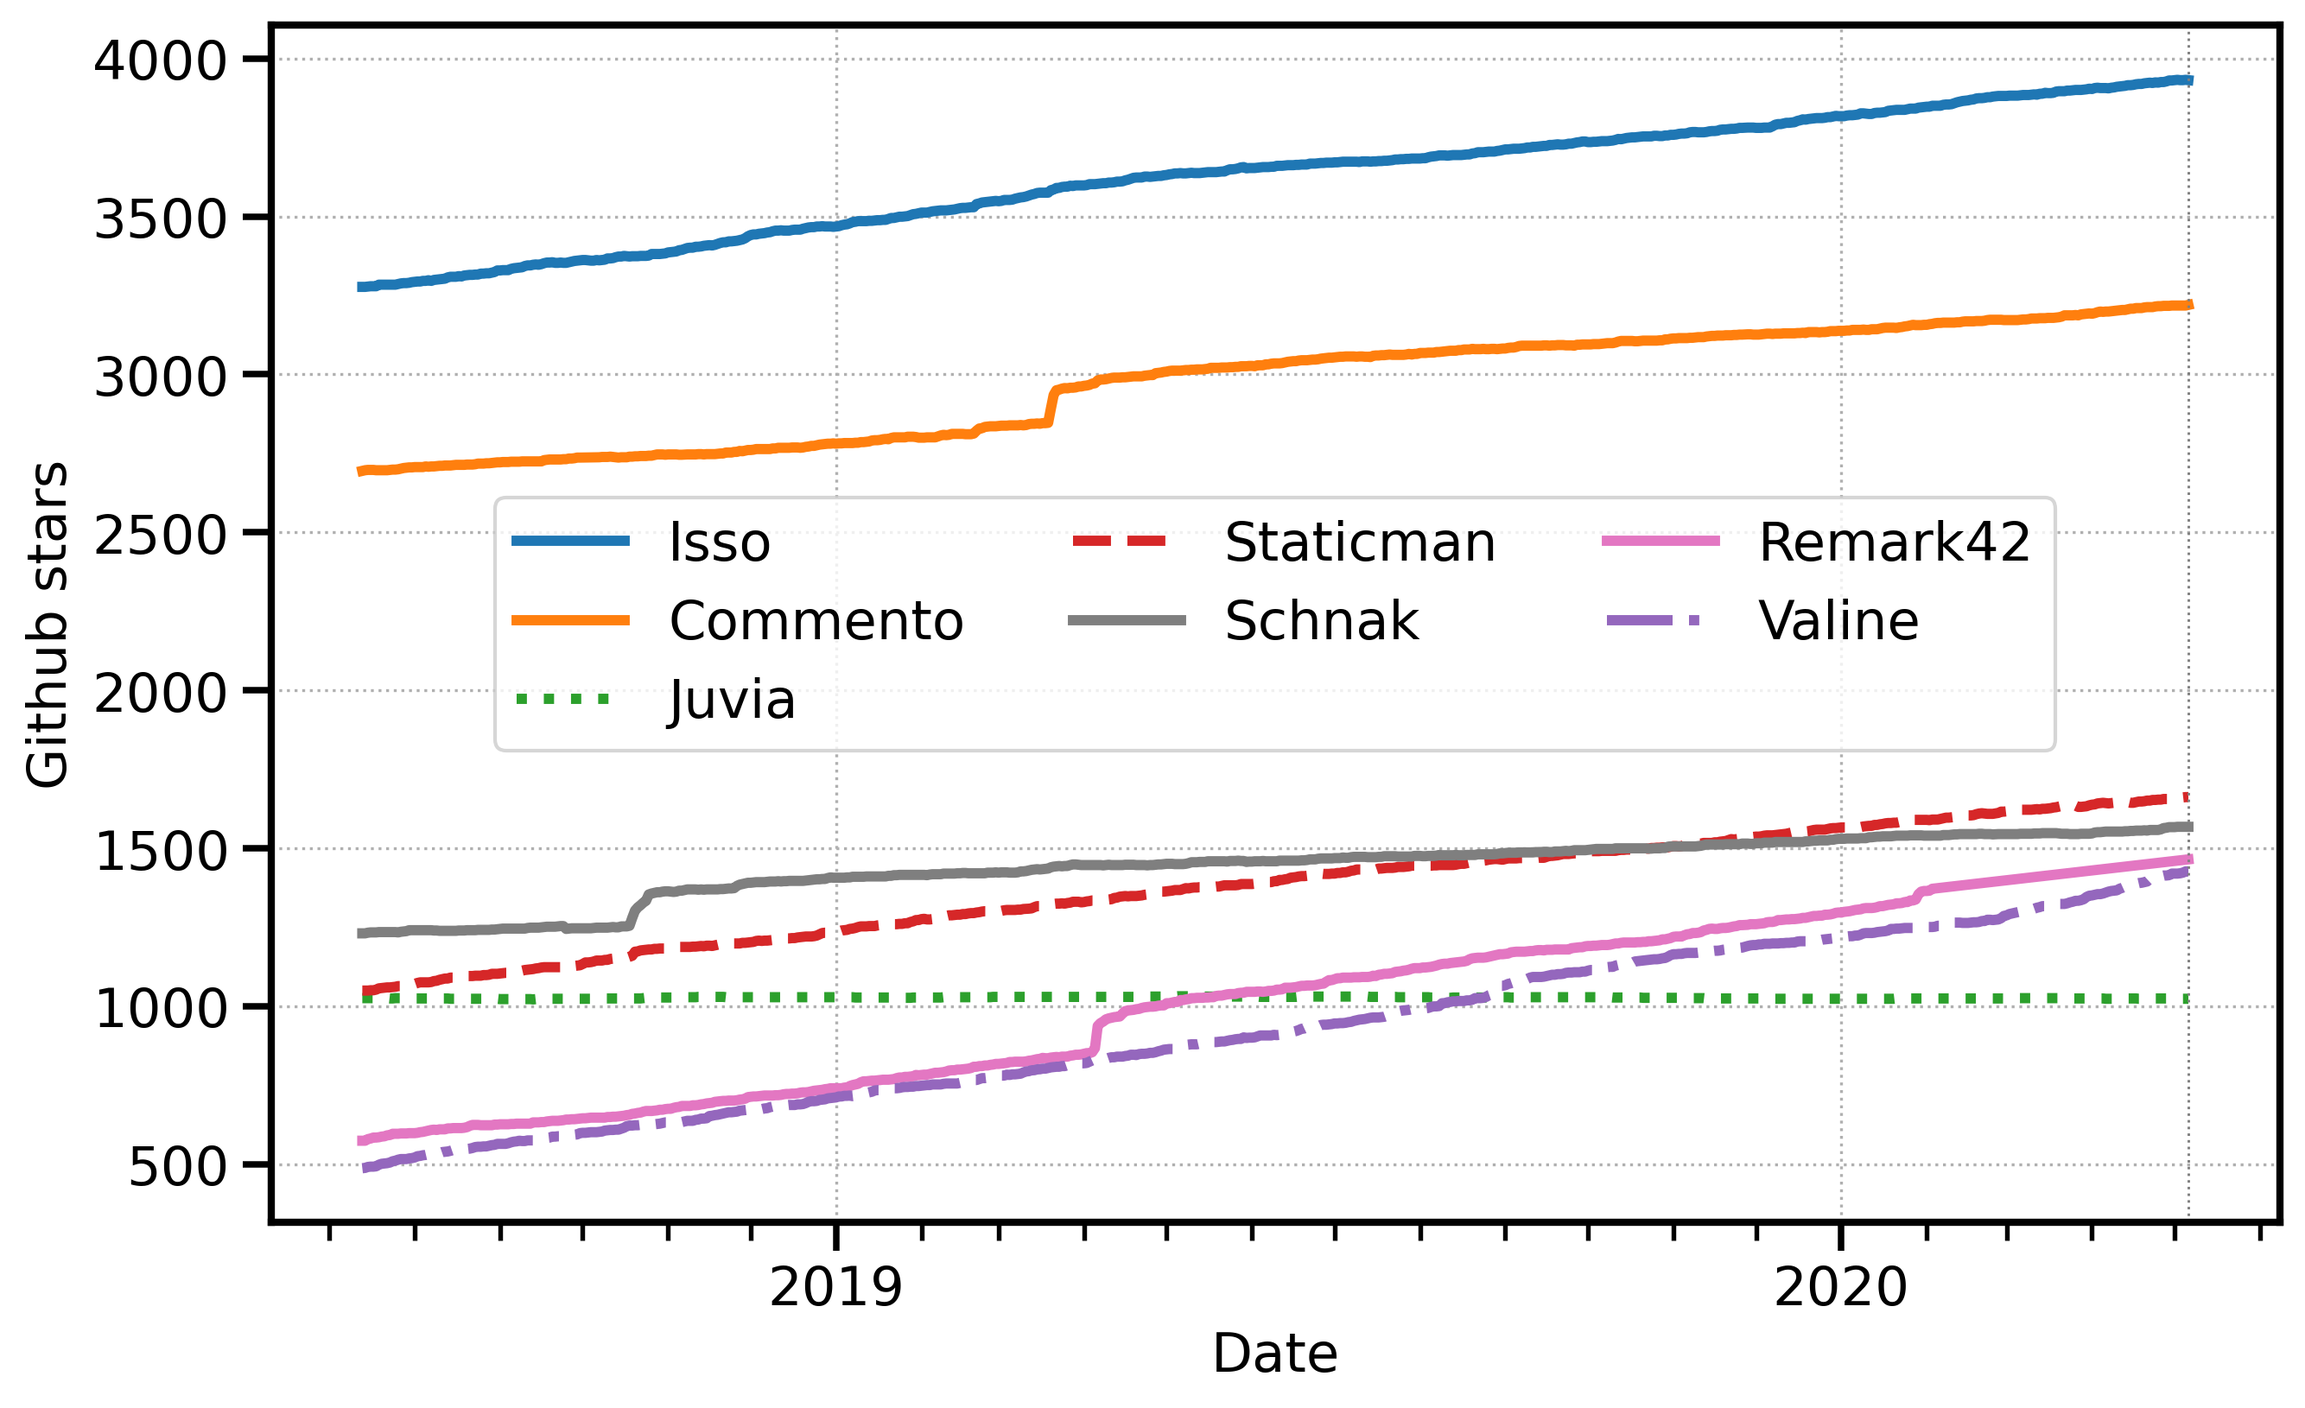
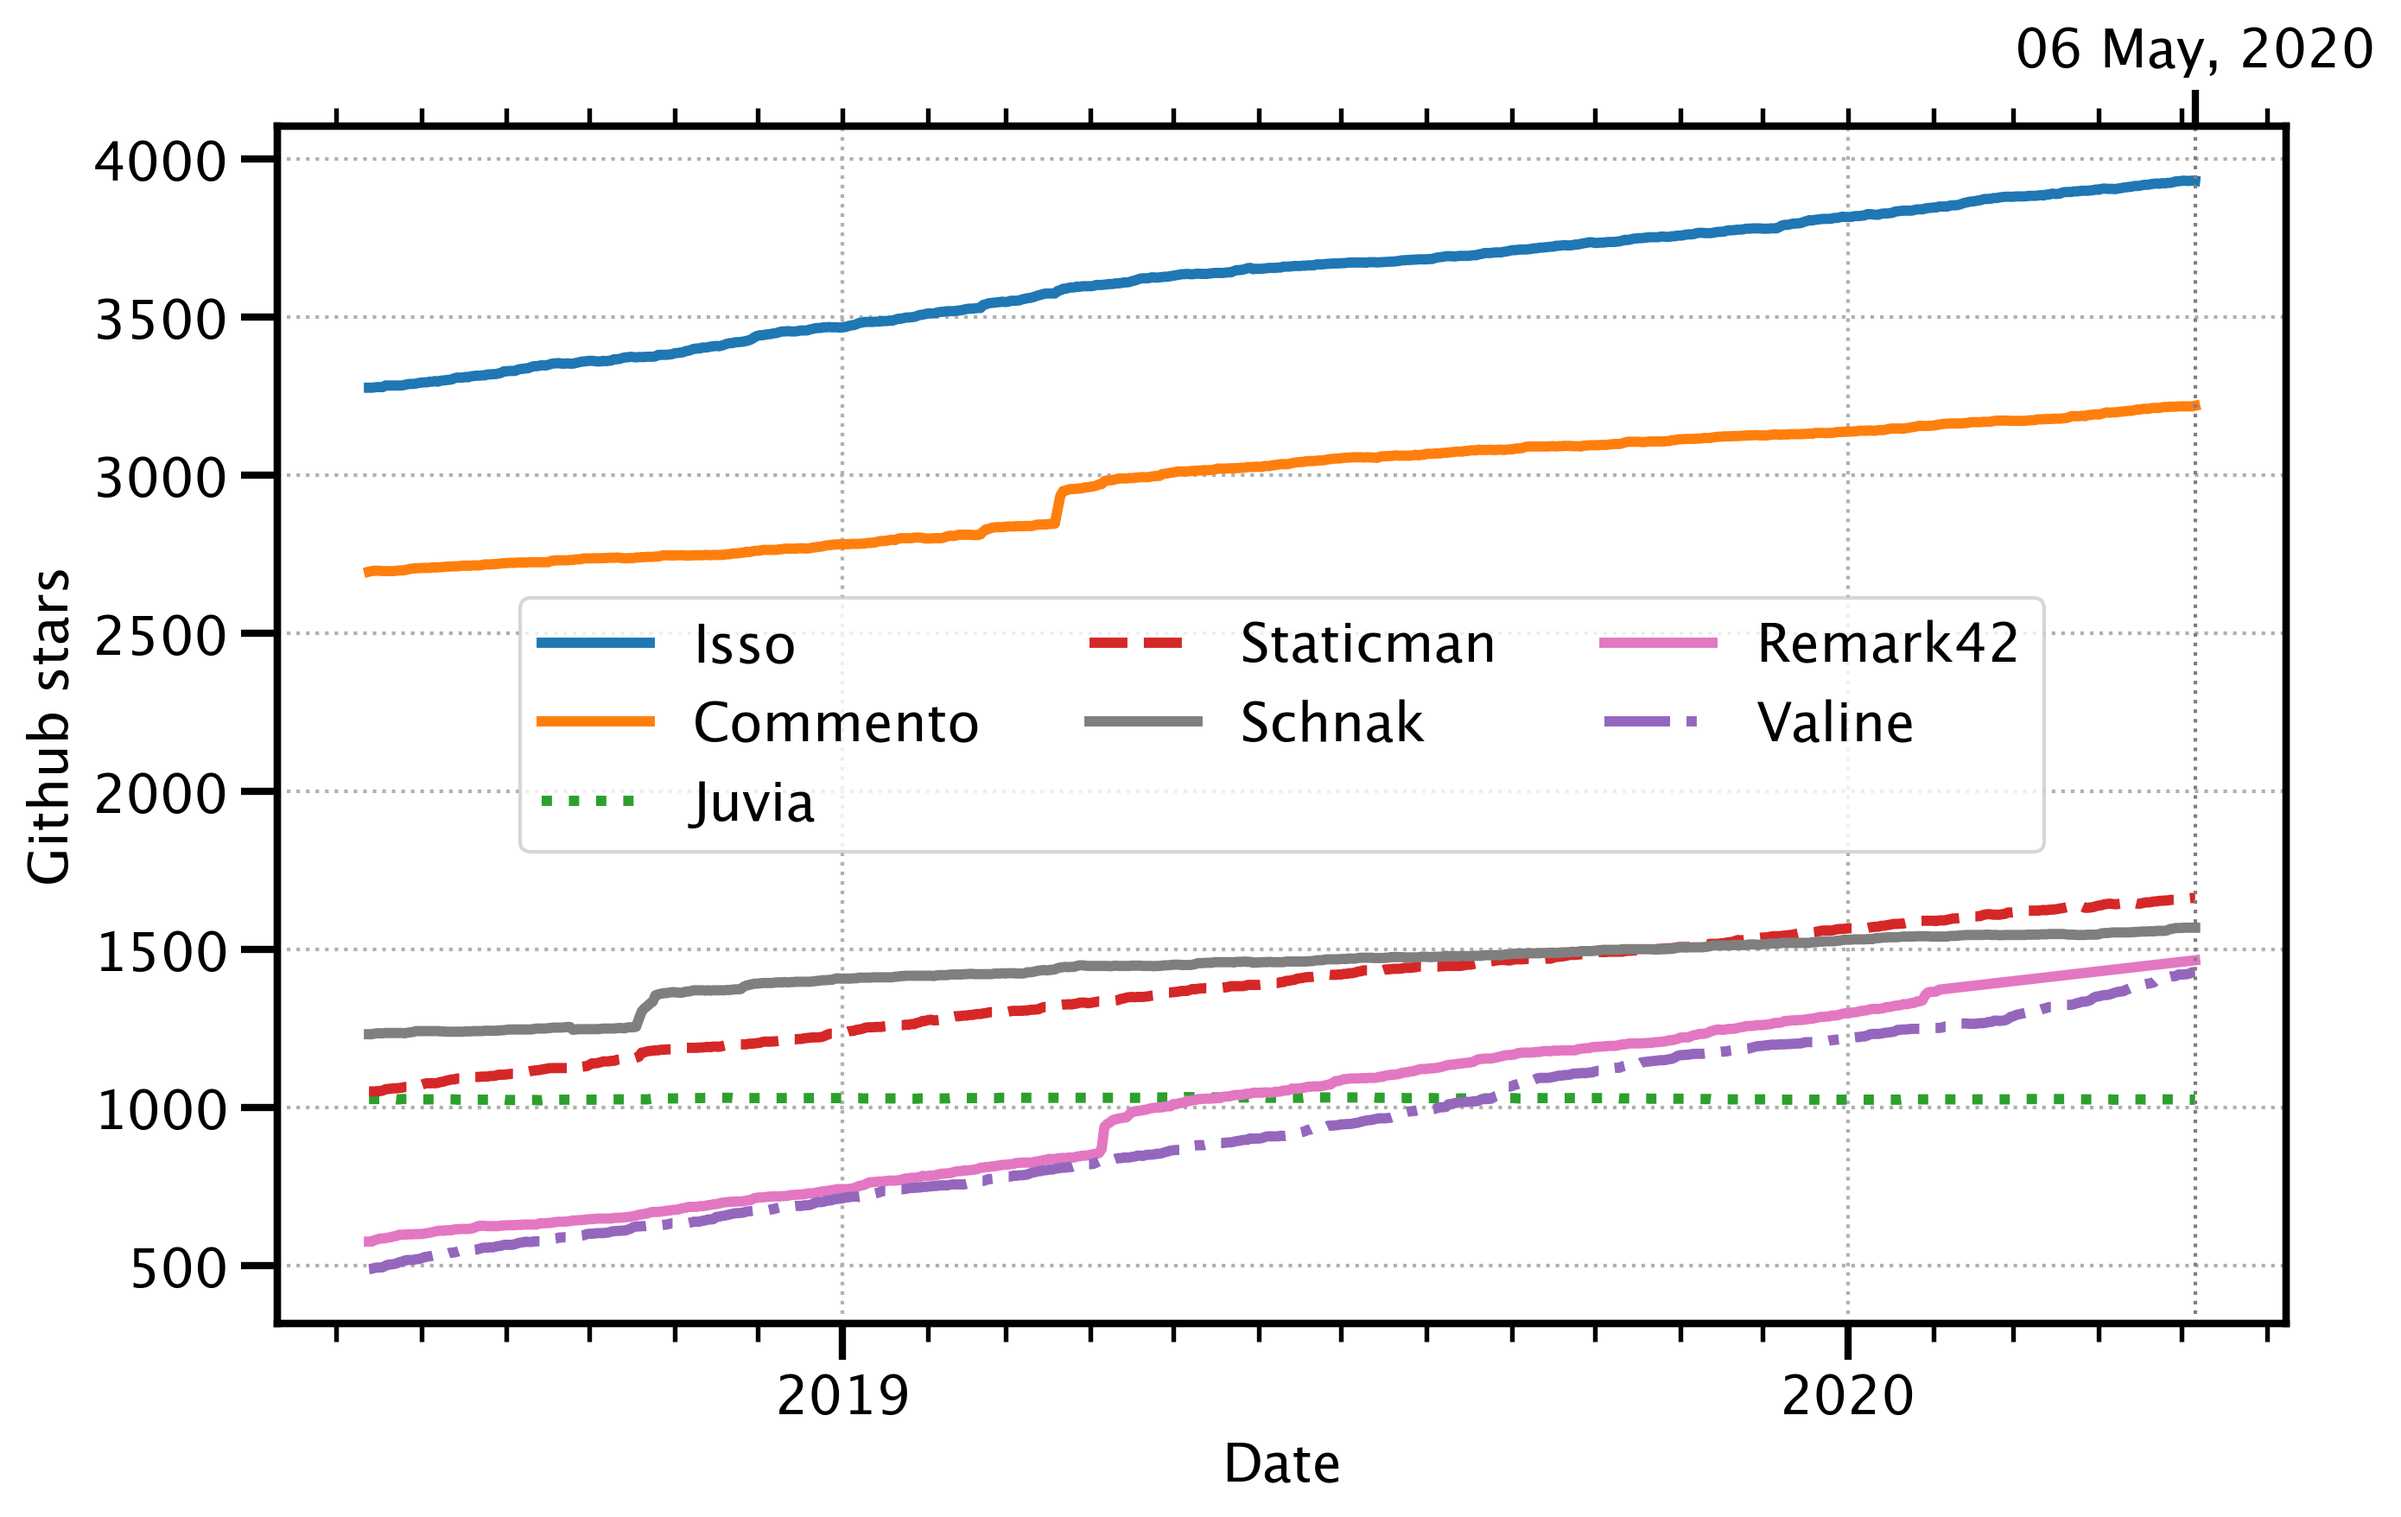
Add today's date to top axis

diff --git a/plot-stars.py b/plot-stars.py
@@ -24,11 +24,14 @@ rc('axes', linewidth=2)
 rc('text', usetex=False)
 rc('legend', fontsize=fs)
 rc('font',  size=fs)
-rc('font',  family='sans-serif')
-rc('xtick.major', size=8, width=1.8)
-rc('ytick.major', size=8, width=1.8)
+rc('xtick.major', size=10, width=2)
+rc('ytick.major', size=10, width=2)
 rc('xtick.minor', size=5, width=1.3)
 rc('ytick.minor', size=5, width=1.3)
+rcParams['font.family'] = 'sans-serif'
+rcParams['font.sans-serif'] = ['Lucida Grande']
+
+
 fig = plt.figure('figure', figsize=(10,6))
 ax = plt.subplot(111)
 
@@ -96,42 +99,51 @@ for mydate in mydates:
 
 lw=2.85
 
-
 x = [datetime.datetime.strptime(d,'%Y-%m-%d').date() for d in isso_dates]
-plt.plot_date(x, isso_stars, label='Isso', lw=lw, ls='-', marker=None)
+ax.plot_date(x, isso_stars, label='Isso', lw=lw, ls='-', marker=None, color='tab:blue')
 
 x = [datetime.datetime.strptime(d,'%Y-%m-%d').date() for d in commento_dates]
-plt.plot_date(x, commento_stars, label='Commento', lw=lw, ls='-', marker=None)
+ax.plot_date(x, commento_stars, label='Commento', lw=lw, ls='-', marker=None, color='tab:orange')
 
 x = [datetime.datetime.strptime(d,'%Y-%m-%d').date() for d in juvia_dates]
-plt.plot_date(x, juvia_stars, label='Juvia', lw=lw, ls=':', marker=None)
+ax.plot_date(x, juvia_stars, label='Juvia', lw=lw, ls=':', marker=None, color='tab:green')
 
 x = [datetime.datetime.strptime(d,'%Y-%m-%d').date() for d in staticman_dates]
-plt.plot_date(x, staticman_stars, label='Staticman', lw=lw, ls='--', marker=None)
+ax.plot_date(x, staticman_stars, label='Staticman', lw=lw, ls='--', marker=None, color='tab:red')
 
 x = [datetime.datetime.strptime(d,'%Y-%m-%d').date() for d in schnak_dates]
-plt.plot_date(x, schnak_stars, label='Schnak', lw=lw, ls='-', marker=None, color='tab:gray')
+ax.plot_date(x, schnak_stars, label='Schnak', lw=lw, ls='-', marker=None, color='tab:gray')
 
 x = [datetime.datetime.strptime(d,'%Y-%m-%d').date() for d in remark_dates]
-plt.plot_date(x, remark_stars, label='Remark42', lw=lw, ls='-', marker=None, color='tab:pink')
+ax.plot_date(x, remark_stars, label='Remark42', lw=lw, ls='-', marker=None, color='tab:pink')
 
 x = [datetime.datetime.strptime(d,'%Y-%m-%d').date() for d in valine_dates]
-plt.plot_date(x, valine_stars, label='Valine', lw=lw, ls='-.', marker=None)
+ax.plot_date(x, valine_stars, label='Valine', lw=lw, ls='-.', marker=None, color='tab:purple')
 
+ax2 = ax.twiny()
 years = mdates.YearLocator()    # every year
 months = mdates.MonthLocator()  # every month
 yearsFmt = mdates.DateFormatter('%Y')
+dateFmt = mdates.DateFormatter('%d %B, %Y')
+
+ax2.xaxis.set_major_locator(years)
+ax2.xaxis.set_major_formatter(dateFmt)
+ax2.xaxis.set_minor_locator(months)
+
 ax.xaxis.set_major_locator(years)
 ax.xaxis.set_major_formatter(yearsFmt)
 ax.xaxis.set_minor_locator(months)
 
 ax.set_xlabel('Date')
 ax.set_ylabel('Github stars')
-plt.legend(ncol=3, loc='center') #loc='center', bbox_to_anchor=(0.5, 1.05),
-plt.grid(ls=':')
+ax.legend(ncol=3, loc='center') # bbox_to_anchor=(0.5, 1.05)
+ax.grid(ls=':', lw=1)
 
-today = date.today()
-plt.axvline(x=today, ls=':', color='tab:gray', lw=0.7)
+#today = date.today()
+last  = np.amax(x)
+ax.axvline(x=last,  ls=':', color='tab:gray', lw=1)
+ax2.set_xlim(ax.get_xlim())
+ax2.set_xticks([last])
 
 plt.savefig('../stars-v-date.png', dpi=300, bbox_inches='tight')
 print('stars-v-date.png is updated')
